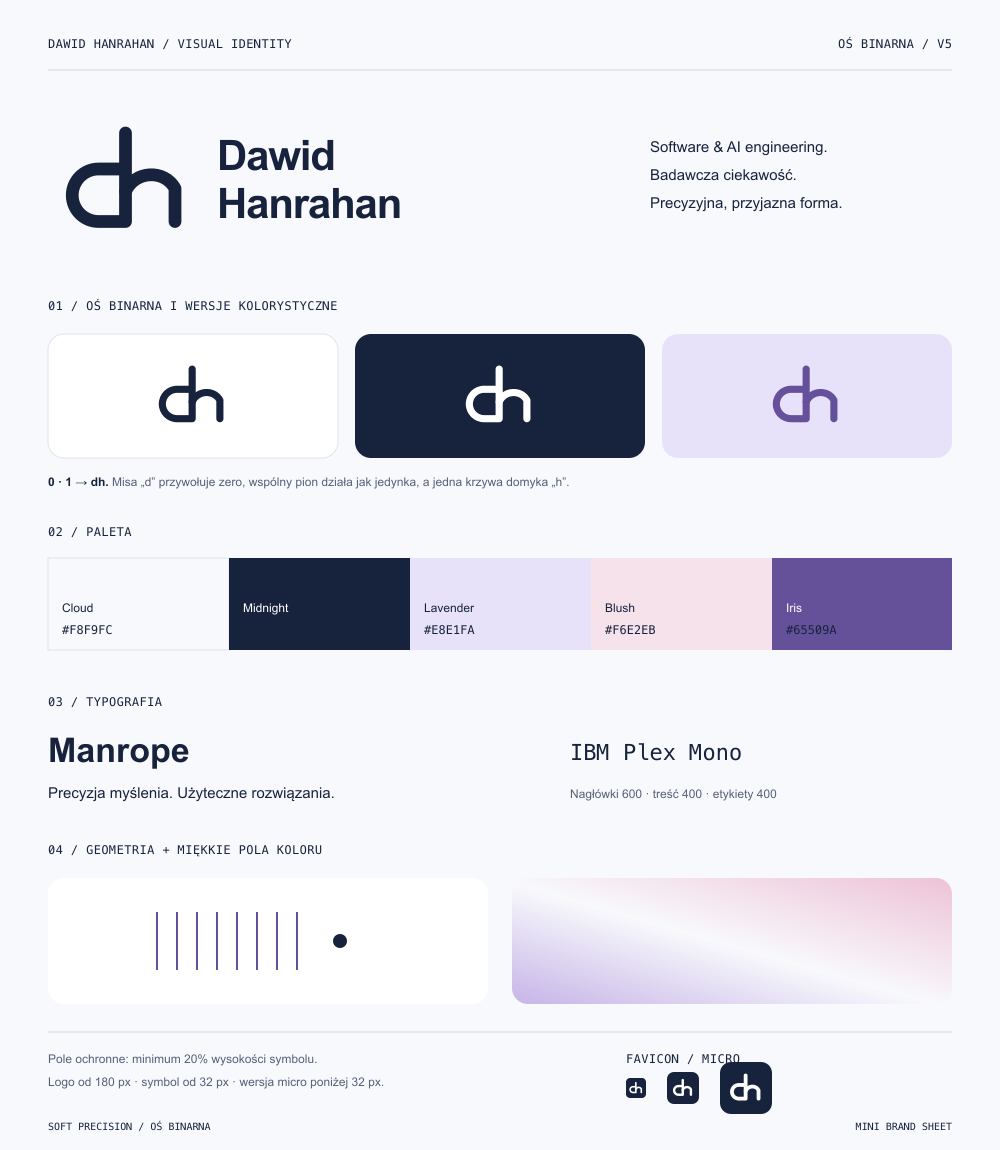
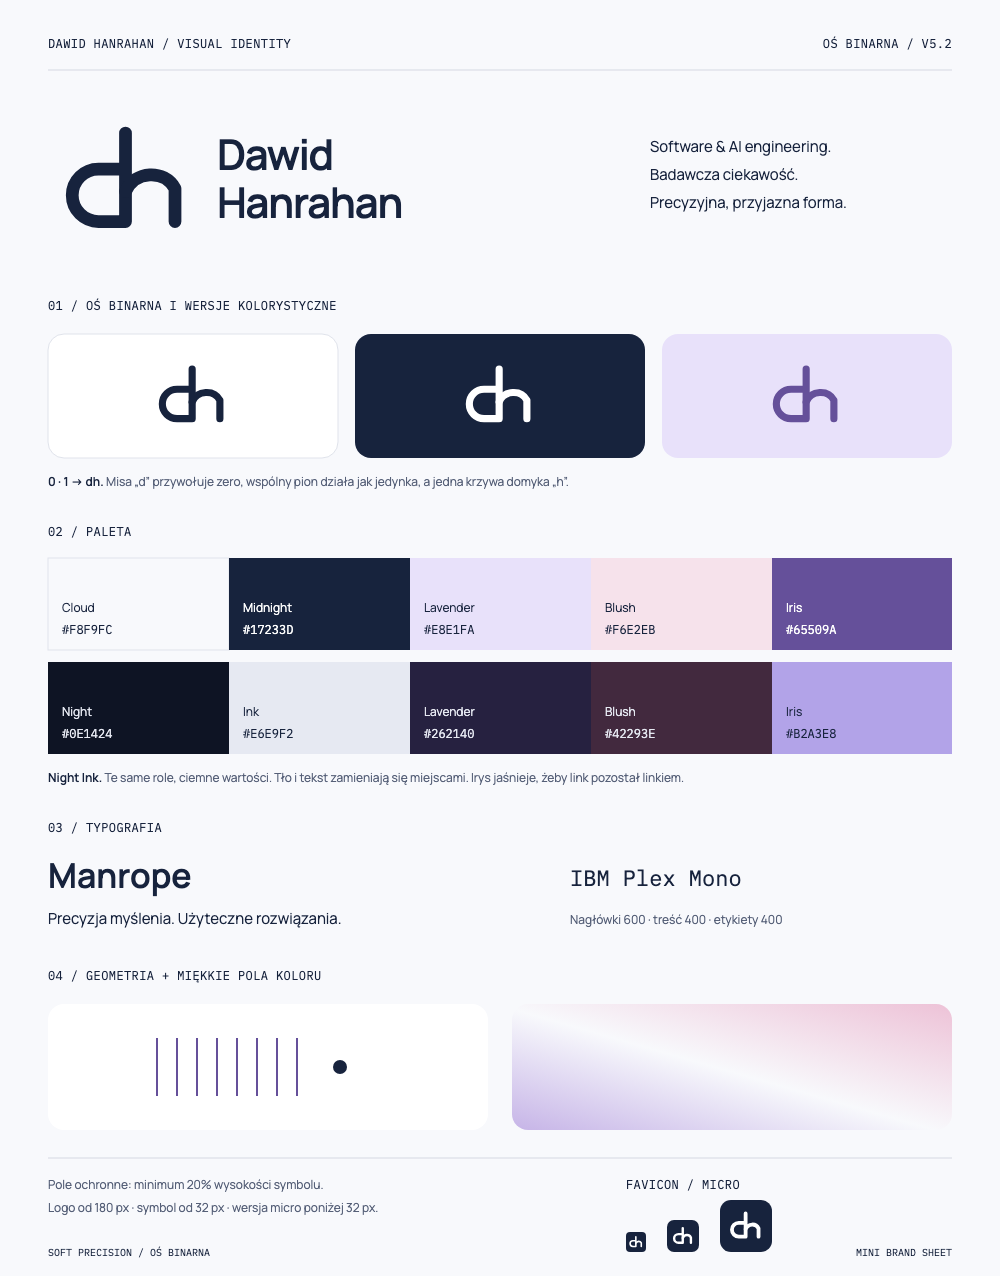
Bring the brand sheet's SVG and PNG up to Night Ink (#75)
#73 added the Night Ink palette to mini-brand-sheet.html, but no script
renders the SVG and PNG, so the image the kit says to share still
showed the light palette only, under a "V5" header.

The SVG now has the Night Ink row and its caption under the light
palette, with the values from palette.json's dark object. Everything
below moves down 126 px in one translated group, so no coordinate
was edited by hand. Both headers say V5.2. The PNG is rendered from the
SVG by headless Chrome at the same 1000 px width, now 1000 x 1276.

Rendering it showed two faults in the old image, and both are fixed:
- the white labels on the Midnight and Iris swatches had a fill
  attribute, which the .mono and .sans class colours outrank, so their
  hex codes drew navy on navy and could not be seen; they, and the new
  row's labels, set the colour as a style
- the largest favicon tile covered the "MICRO" of its label; the three
  tiles now sit below the label, bottom-aligned
The SVG also declares the kit's Manrope and IBM Plex Mono from fonts/,
so a render beside the kit uses them. The old PNG had fallen back to
Arial. Elsewhere the font stack is unchanged.

Verified: the SVG parses, and the render shows every swatch label and a
clear favicon label. The HTML, the SVG and palette.json carry the same
five dark values and the same caption.

diff --git a/visual-kit/mini-brand-sheet.html b/visual-kit/mini-brand-sheet.html
@@ -1,7 +1,7 @@
 <!doctype html>
 <html lang="pl"><head><meta charset="utf-8"><meta name="viewport" content="width=device-width,initial-scale=1"><title>Dawid Hanrahan — Mini brand sheet</title><style>
 @font-face{font-family:Manrope;src:url('fonts/Manrope.ttf')}@font-face{font-family:Plex;src:url('fonts/IBMPlexMono-Regular.ttf')}*{box-sizing:border-box}body{margin:0;background:#E0E3EB;color:#17233D;font:15px/1.6 Manrope,Arial,sans-serif}.sheet{max-width:1000px;margin:auto;background:#F8F9FC;padding:48px}header{display:flex;justify-content:space-between;border-bottom:1px solid #D5D8E2;padding-bottom:20px;font:11px Plex,monospace;letter-spacing:1px}.hero{display:flex;align-items:center;justify-content:space-between;padding:42px 0 32px;gap:30px}.hero>img{width:420px;max-width:65%}.hero aside{font-size:14px;color:#566078;max-width:220px}h2{font:12px Plex,monospace;letter-spacing:.4px;margin:28px 0 16px}.variants{display:grid;grid-template-columns:1fr 1fr 1fr;gap:16px}.variant{display:flex;align-items:center;justify-content:center;height:122px;border-radius:16px;background:white;border:1px solid #E0E3EB}.variant img{width:80px;height:80px}.variant.dark{background:#17233D;border-color:#17233D}.variant.pastel{background:#E8E1FA}.concept{margin:12px 0 0;color:#566078;font-size:13px}.concept strong{color:#17233D}.swatches{display:grid;grid-template-columns:repeat(5,1fr);border-radius:14px;overflow:hidden;border:1px solid #E0E3EB}.swatches>div{padding:42px 14px 14px;font-size:12px}.swatches.night{margin-top:12px;border-color:#262F45;background:#0E1424}.swatches span{display:block;font:11px Plex,monospace;margin-top:4px}.type-row{display:grid;grid-template-columns:1.2fr 1fr;gap:30px}.type-row strong{display:block;font-size:32px;letter-spacing:-1px;font-weight:600}.type-row p{color:#566078;margin:8px 0;font-size:14px}.mono{font:12px/1.7 Plex,monospace;letter-spacing:.5px}.motifs{display:grid;grid-template-columns:1fr 1fr;gap:16px}.motif{height:125px;border-radius:16px;overflow:hidden;background:white}.motif img{width:100%;height:100%;object-fit:cover}.motif:first-child img{object-fit:contain;padding:14px}.foot{display:grid;grid-template-columns:1.4fr 1fr;gap:24px;border-top:1px solid #D5D8E2;margin-top:28px;padding-top:20px;font-size:12px;color:#566078}.favicons{display:flex;gap:20px;align-items:center;margin-top:10px}.favicons img{image-rendering:auto}footer{margin-top:28px;font:10px Plex,monospace;color:#566078;display:flex;justify-content:space-between}@media(max-width:600px){.sheet{padding:24px}.hero{flex-direction:column;align-items:flex-start}.hero>img{max-width:100%;width:340px}.hero aside{max-width:none}.type-row,.foot{grid-template-columns:1fr}.swatches{grid-template-columns:repeat(3,1fr)}header{gap:16px;flex-wrap:wrap}.variants{gap:8px}.variant{height:90px}.variant img{width:64px}.motifs{grid-template-columns:1fr}}
-</style></head><body><main class="sheet"><header><span>DAWID HANRAHAN / VISUAL IDENTITY</span><span>OŚ BINARNA · V5 · 19.09.2026</span></header>
+</style></head><body><main class="sheet"><header><span>DAWID HANRAHAN / VISUAL IDENTITY</span><span>OŚ BINARNA · V5.2 · 16.10.2026</span></header>
 <section class="hero"><img src="logo/dawid-hanrahan-navy.svg" alt="Logo Dawid Hanrahan"><aside>Software & AI engineering.<br>Badawcza ciekawość.<br>Precyzyjna, przyjazna forma.</aside></section>
 <h2>01 / OŚ BINARNA I WERSJE KOLORYSTYCZNE</h2><div class="variants"><div class="variant"><img src="symbol/dh-navy.svg" alt="Granatowy symbol Oś binarna"></div><div class="variant dark"><img src="symbol/dh-white.svg" alt="Biały symbol Oś binarna na granacie"></div><div class="variant pastel"><img src="symbol/dh-iris.svg" alt="Fioletowy symbol Oś binarna na lawendzie"></div></div><p class="concept"><strong>0 · 1 → dh.</strong> Misa „d” przywołuje zero, wspólny pion działa jak jedynka, a jedna krzywa domyka „h”.</p>
 <h2>02 / PALETA</h2><div class="swatches"><div style="background:#F8F9FC">Cloud<span>#F8F9FC</span></div><div style="background:#17233D;color:white">Midnight<span>#17233D</span></div><div style="background:#E8E1FA">Lavender<span>#E8E1FA</span></div><div style="background:#F6E2EB">Blush<span>#F6E2EB</span></div><div style="background:#65509A;color:white">Iris<span>#65509A</span></div></div><div class="swatches night"><div style="background:#0E1424;color:#E6E9F2">Night<span>#0E1424</span></div><div style="background:#E6E9F2">Ink<span>#E6E9F2</span></div><div style="background:#262140;color:#E6E9F2">Lavender<span>#262140</span></div><div style="background:#42293E;color:#E6E9F2">Blush<span>#42293E</span></div><div style="background:#B2A3E8">Iris<span>#B2A3E8</span></div></div><p class="concept"><strong>Night Ink.</strong> Te same role, ciemne wartości. Tło i tekst zamieniają się miejscami. Irys jaśnieje, żeby link pozostał linkiem.</p>

diff --git a/visual-kit/README.md b/visual-kit/README.md
@@ -219,7 +219,7 @@ Nothing about the mark, the typography, the spacing scale, the layout grid, the 
 - A dark theme, Night Ink: a dark value for every palette token, the theme control and its behaviour, and the rules for marks, captures, paper and the heat field (see Dark theme). `palette.json` gains a `dark` object, and `brand-tokens.css` a `[data-theme="dark"]` block.
 - Elevation: shadows are cast in a new `shadow` token instead of `ink`, so the dark theme can cast them in near-black.
 - Dark theme: the light `primary` fill is kept for primary actions; chosen states and disabled primary buttons take their own quieter values (see Dark theme). The chat launcher rests quiet in dark and lights only under a hovering pointer.
-- `mini-brand-sheet.html` shows the Night Ink palette under the light one; `mini-brand-sheet.png` and `.svg` are not regenerated yet and still show the light palette only.
+- The mini brand sheet, in HTML, SVG and PNG, shows the Night Ink palette under the light one. The PNG is rendered from the SVG, now in the kit's own Manrope and Plex Mono; the white labels on the dark swatches had been drawn in navy, as a class colour beat their fill, and the favicon tiles had covered their label.
 - Motion: from xl up the contact graph runs on the page's circuit, shown while it is closed and switched off while it is open (see Motion, Home).
 - Typography: the group label inside a section, and the stage heading set like it in ink, are written down (see Typography); the site had three versions of the label.
 - Fonts: IBM Plex Mono Medium joins the Regular, as WOFF2 with the Regular's character set, so the 500 the labels use is the real cut.
